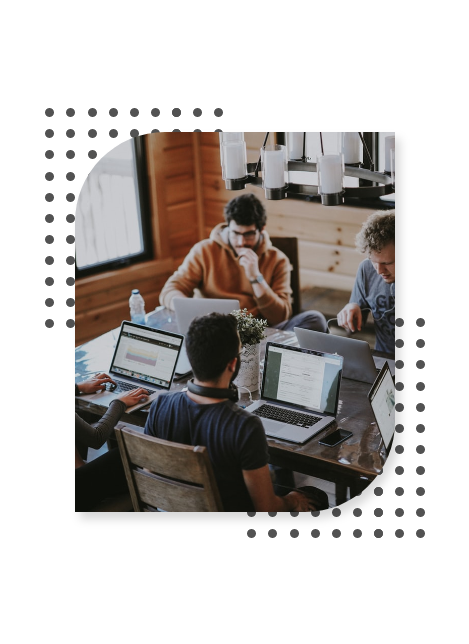
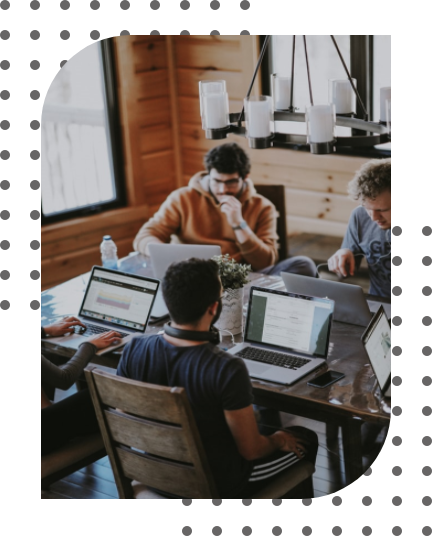
added final changes

diff --git a/src/components/UpperBanner/Logos.js b/src/components/UpperBanner/Logos.js
@@ -1,20 +1,14 @@
-import React, { useState } from 'react';
+import React from 'react';
 import './UpperBanner.css';
 
 function Logos({ data }) {
-    const [width, setWidth] = useState(140)
-    const [height, setHeight] = useState(80)
-
     return (
-        <div className="org-logo">
-
+        <div className='org-logo'>
             {data.map(({ uri, name }) => (
                 <img
                     src={uri}
                     alt={name}
-                    className="org-logo-image"
-                    width={width}
-                    height={height}
+                    className='org-logo-image'
                 />
             ))}
         </div>

diff --git a/src/components/ImgColumn/index.js b/src/components/ImgColumn/index.js
@@ -1,11 +1,11 @@
 import React from 'react';
 import './ImgColumn.css';
-// import Img from 'src/assets/Image-1';
+import Img from '../../assets/Image-1.png';
 
 function ImgColumn() {
     return (
         <div className='Images'>
-            <img src='https://images.unsplash.com/photo-1521737711867-e3b97375f902?ixlib=rb-1.2.1&ixid=eyJhcHBfaWQiOjEyMDd9&auto=format&fit=crop&w=634&q=80'
+            <img src={Img}
                 className='img-cover'
                 alt='Working'
             />

diff --git a/src/components/TextColumn/index.js b/src/components/TextColumn/index.js
@@ -15,7 +15,7 @@ function TextColumn() {
                 eu fugiat nulla pariatur. Excepteur sint occaecat cupidatat non proident, sunt in culpa qui officia
                 deserunt mollit anim id est laborum.
             </p>
-            <div className="button-container">
+            <div className='button-container'>
                 <button>
                     Know more <IoMdArrowForward />
                 </button>

diff --git a/src/components/LowerBanner/index.js b/src/components/LowerBanner/index.js
@@ -2,14 +2,14 @@ import React from 'react';
 import ImgColumn from '../ImgColumn';
 import TextColumn from '../TextColumn';
 import './LowerBanner.css';
-import Chat from '../Chat';
+import ChatFab from '../ChatFab';
 
 function LowerBanner() {
     return (
         <div className='row'>
             <ImgColumn />
             <TextColumn />
-            <Chat />
+            <ChatFab />
         </div>
     )
 }

diff --git a/src/components/ImgColumn/ImgColumn.css b/src/components/ImgColumn/ImgColumn.css
@@ -3,12 +3,10 @@
     flex: 1;
     align-items: center;
     justify-content: center;
-    padding: 60px 0px;
+    padding-top: 10px;
 }
 
 .img-cover {
-    height: 500px;
+    height: 550px;
     width: auto;
-    border-bottom-right-radius: 100px;
-    border-top-left-radius: 100px;
 }

diff --git a/src/components/UpperBanner/index.js b/src/components/UpperBanner/index.js
@@ -4,7 +4,7 @@ import './UpperBanner.css';
 
 function UpperBanner({ data }) {
     return (
-        <div className="text-label" >
+        <div className='text-label' >
             <h1> Trusted by Industry Leading Organisations </h1>
             <Logos data={data} />
         </div>

diff --git a/src/App.js b/src/App.js
@@ -6,10 +6,9 @@ import './App.css'
 
 function App() {
   return (
-    <div className="App">
+    <div className='App'>
         <UpperBanner data={OrgLogo} />
         <LowerBanner />
-        
     </div>
   );
 }

diff --git a/src/components/TextColumn/TextColumn.css b/src/components/TextColumn/TextColumn.css
@@ -3,7 +3,7 @@
     flex-direction: column;
     font-family: var(--font-family);
     flex: 1;
-    padding: 60px 10vw 60px 80px;
+    padding: 60px 2vw 60px 80px;
     align-items: center;
 }
 

diff --git a/src/components/ChatFab/index.js b/src/components/ChatFab/index.js
@@ -1,6 +1,6 @@
 import React from 'react';
 import { IoMdChatboxes } from 'react-icons/io';
-import './Chat.css';
+import './ChatFab.css';
 
 function Chat() {
     return (

diff --git a/src/components/ChatFab/ChatFab.css b/src/components/ChatFab/ChatFab.css
@@ -11,6 +11,7 @@
     border: none;
     box-shadow: 0px 8px 15px rgba(0, 0, 0, 0.1);
     padding: 5px 2px;
+    transition: linear 200ms;
 }
 
 .chat-button-container {

diff --git a/src/components/UpperBanner/UpperBanner.css b/src/components/UpperBanner/UpperBanner.css
@@ -22,3 +22,8 @@
     
 }
 
+.org-logo-image {
+    height: 90px;
+    width: auto;
+}
+
